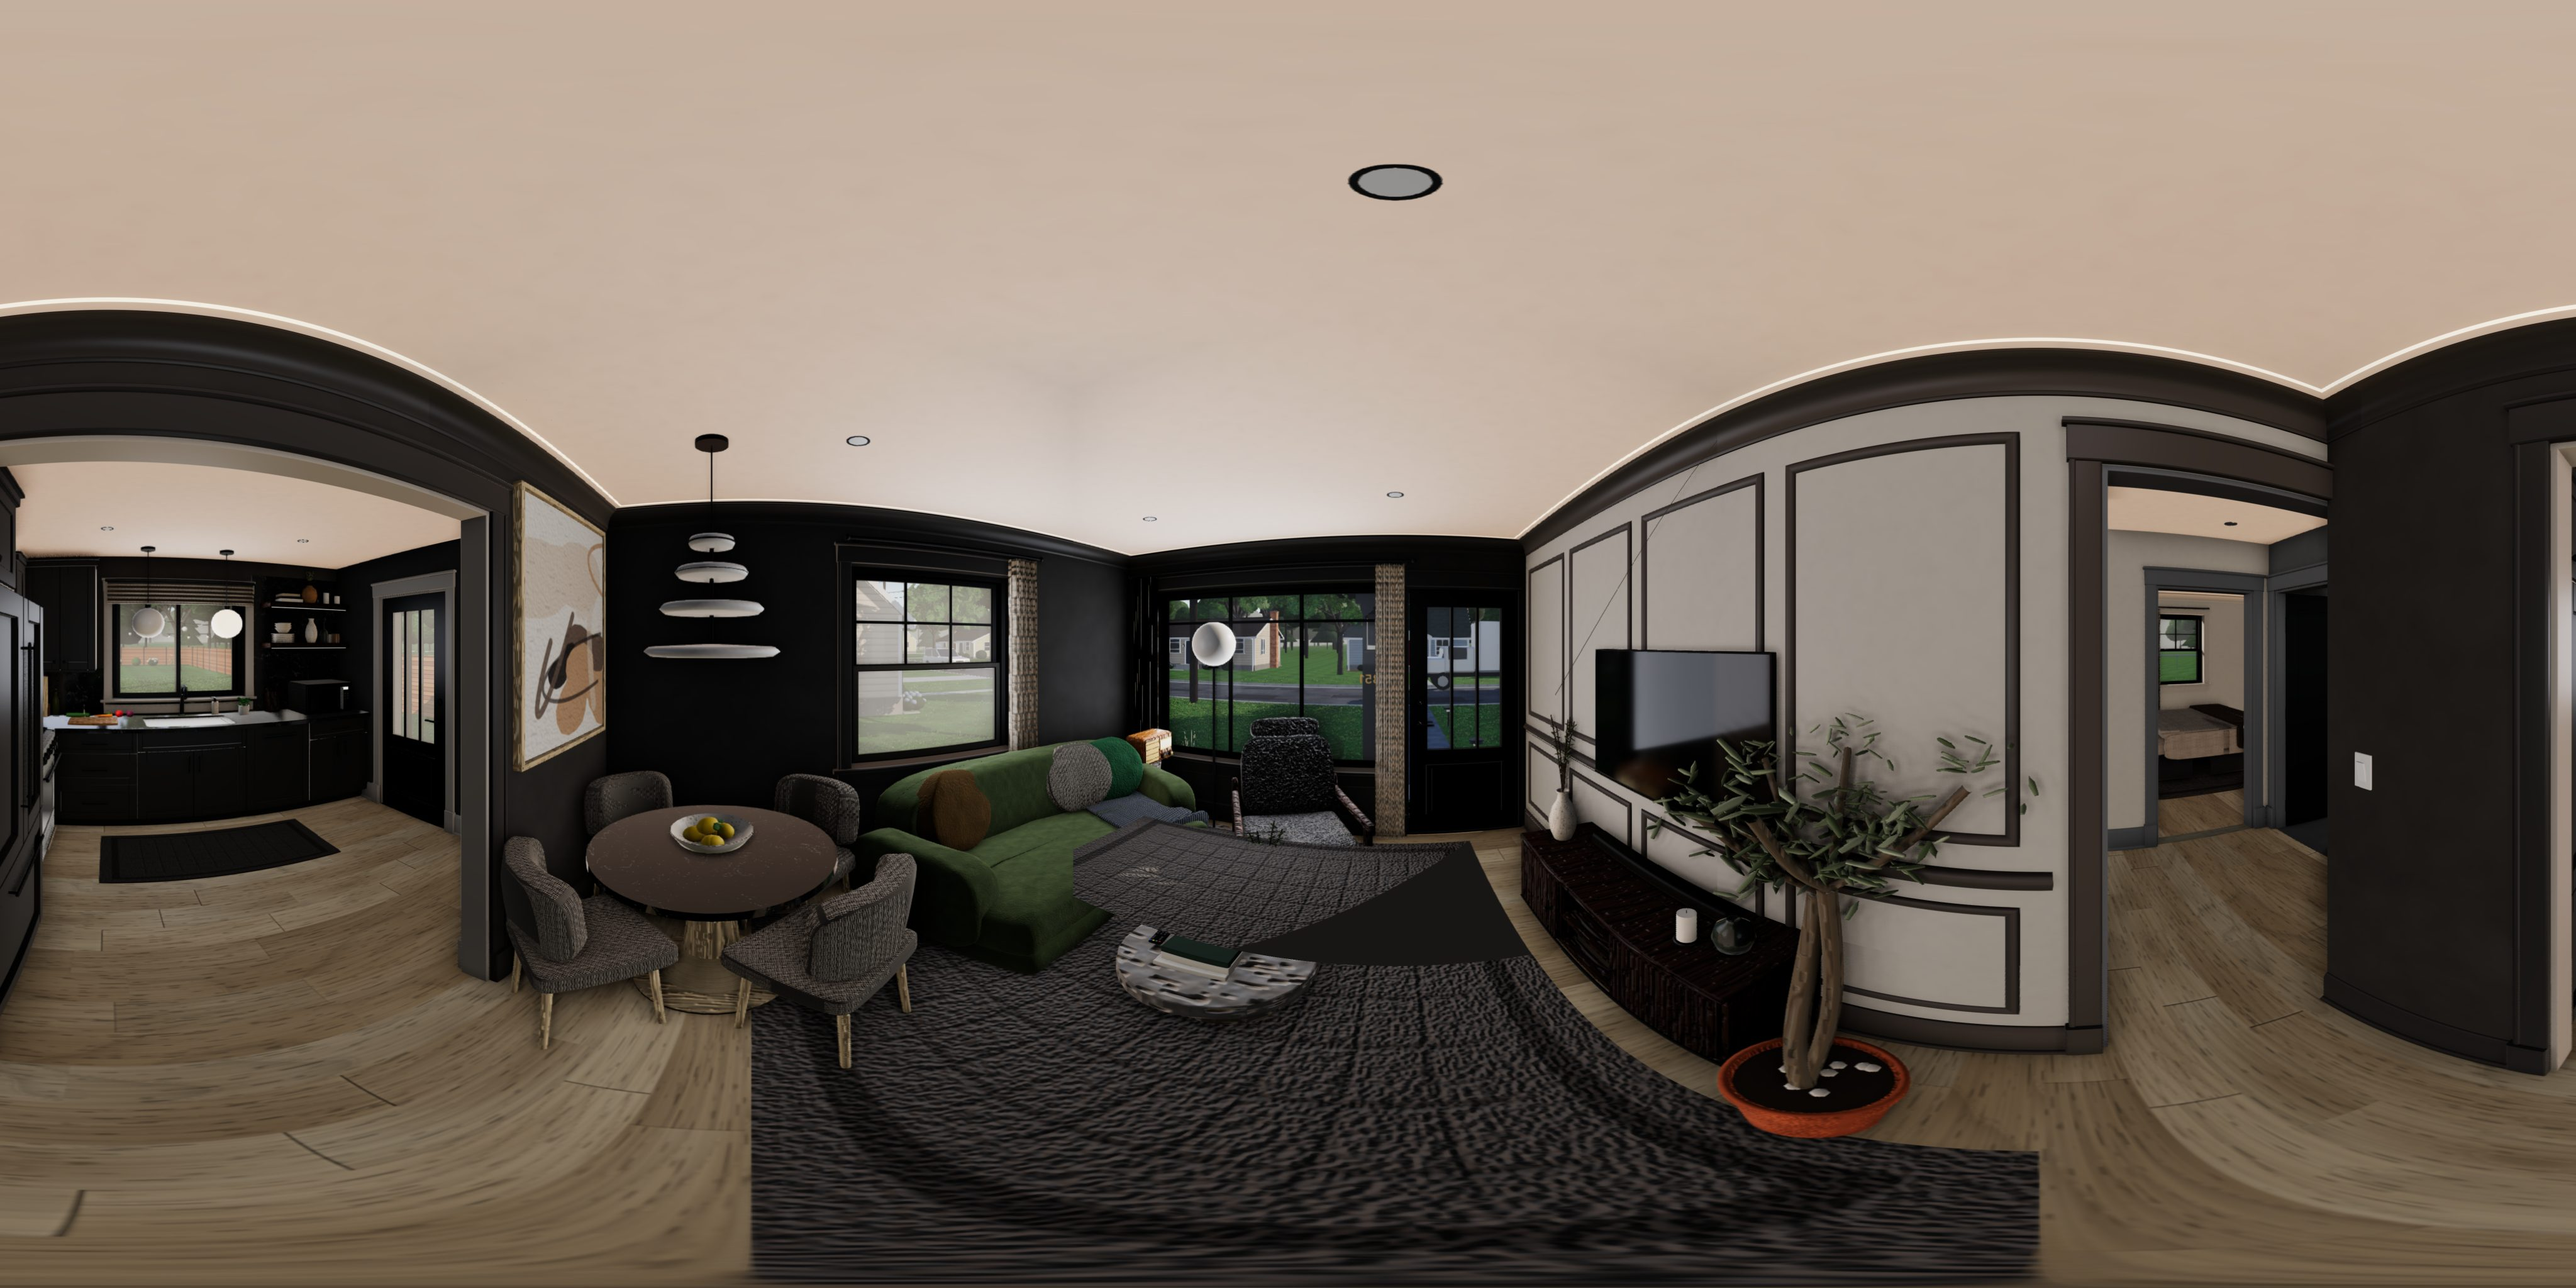
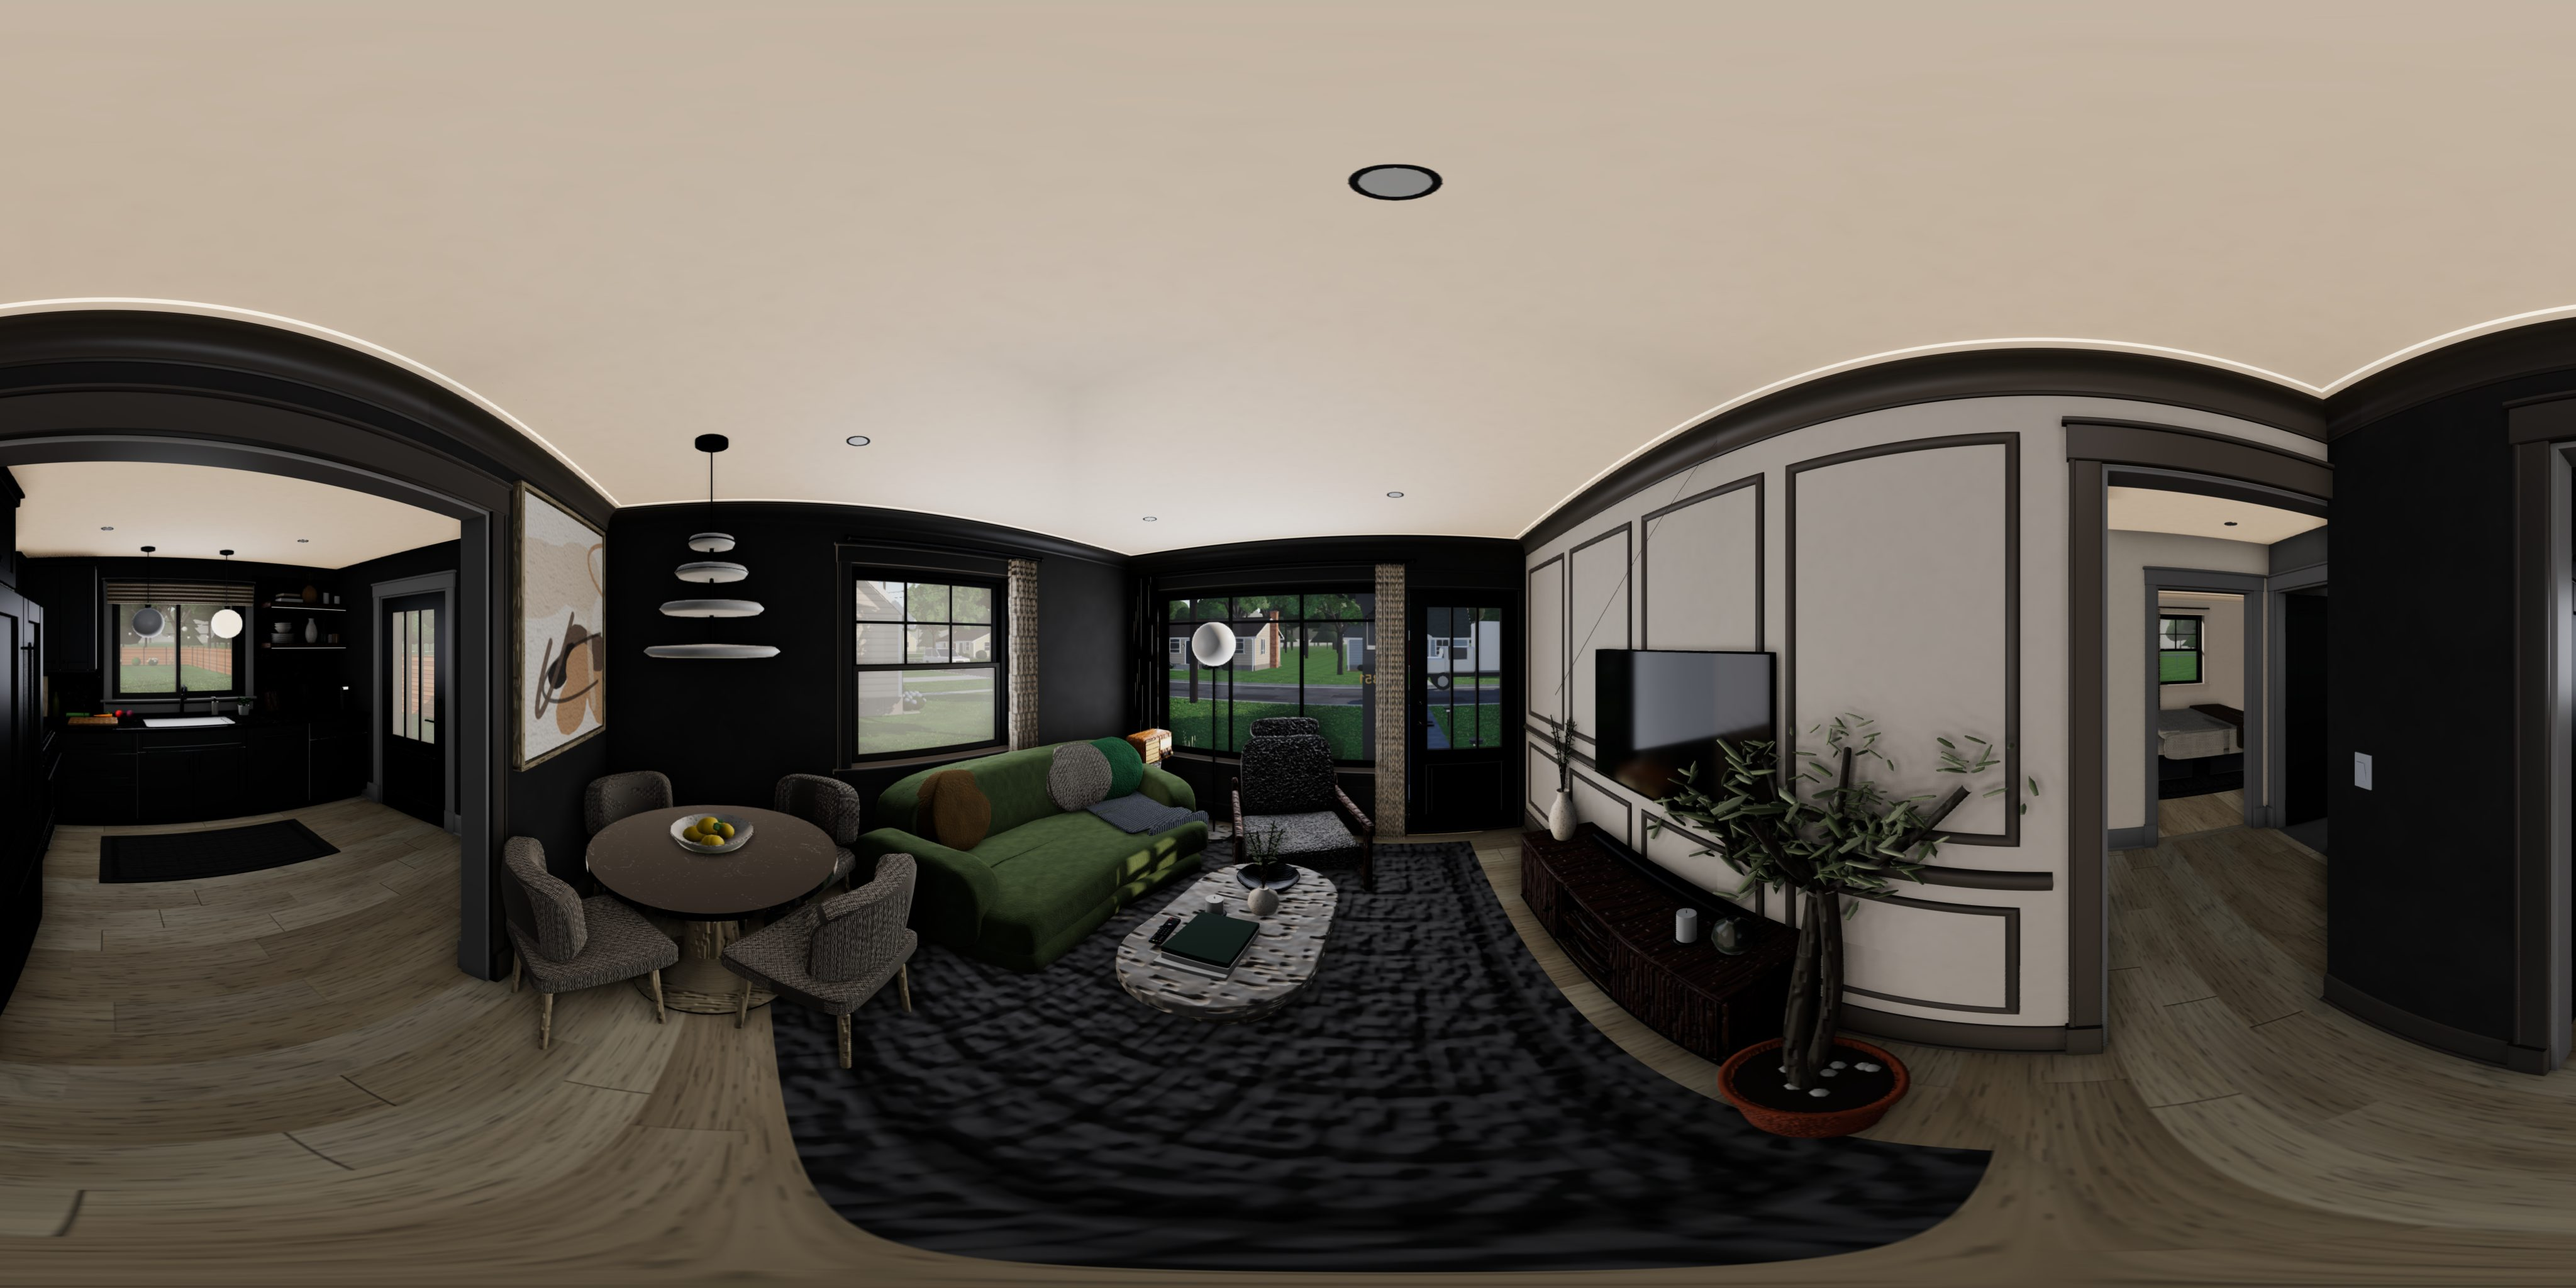
Tour v8: he/en/es languages, reset on refresh, hits-only radio list (WNCI default), slower walking, local three.js, rug and bath fixes
Claude-Session: https://claude.ai/code/session_01VAfN7BZWKhFDRhtGGFTofB

diff --git a/index.html b/index.html
@@ -70,7 +70,20 @@ body.loading .ui{opacity:0;pointer-events:none}
 #loader .lang-sw{margin-top:14px;background:rgba(255,255,255,.04);border:1px solid var(--line);border-radius:12px}
 #loader .lang-sw button{flex-direction:row;gap:6px;font-size:13px}
 #loader .lang-sw button .fl{font-size:18px}
+/* V8: flags-only language pill floating just above the compact intro card (outside its 244×62 footprint) */
+#intro .lang-intro{position:absolute;bottom:calc(100% + 6px);left:0;right:auto;background:var(--glass-strong);border:1px solid var(--line);border-radius:12px;padding:3px;gap:2px;box-shadow:0 6px 18px rgba(0,0,0,.25)}
+html[dir=rtl] #intro .lang-intro{left:auto;right:0} /* the pill itself is dir=ltr: align it with the card's docked edge */
+#intro .lang-intro button{flex:0 0 auto;flex-direction:row;min-width:44px;min-height:40px;padding:0 6px}
+#intro .lang-intro button .ln{display:none}
+#intro .lang-intro button .fl{font-size:20px}
+/* wide screens: the tools column sits right above the docked card → put the pill beside the card, toward the centre */
+@media (min-width:700px){#intro .lang-intro{bottom:auto;top:50%;transform:translateY(-50%);left:calc(100% + 8px);right:auto}html[dir=rtl] #intro .lang-intro{left:auto;right:calc(100% + 8px)}}
 body.ltr .tbtn,body.ltr .sp-it,body.ltr .rp-st{text-align:left}
+/* V8: LTR (English / Spanish) — undo the RTL-only alignments */
+body.ltr #leftStack>*{direction:ltr}
+body.ltr #radioChip,body.ltr #radioChip .rc-txt small{text-align:left}
+body.ltr .rp-note,body.ltr .plabel span{direction:ltr}
+body.ltr #intro h1,body.ltr #loader .brand{text-align:left}
 
 /* ---------- tools column ---------- */
 #tools{top:calc(var(--gut) + env(safe-area-inset-top,0px));right:calc(var(--gut) + env(safe-area-inset-right,0px));display:flex;flex-direction:column;gap:8px;align-items:stretch;width:150px}
@@ -111,7 +124,7 @@ body.mode-dollhouse #roomHud, body.mode-plan #roomHud{max-width:none;min-width:1
 #radioChip .rc-ico{font-size:15px;line-height:1}
 #radioChip .rc-txt{display:flex;flex-direction:column;line-height:1.15;min-width:0}
 #radioChip .rc-txt b{font-size:12px;white-space:nowrap;overflow:hidden;text-overflow:ellipsis}
-#radioChip .rc-txt small{font-size:10px;color:var(--accent);white-space:nowrap;direction:ltr;text-align:right}
+#radioChip .rc-txt small{font-size:10px;color:var(--accent);white-space:nowrap;direction:ltr;text-align:right;overflow:hidden;text-overflow:ellipsis;max-width:100%}
 #radioChip .rc-eq{display:none;align-items:flex-end;gap:2px;height:12px}
 #radioChip.on .rc-eq{display:inline-flex}
 #radioChip .rc-eq i{display:block;width:3px;height:100%;border-radius:2px;background:var(--accent);transform-origin:bottom;animation:eq .8s ease-in-out infinite alternate}
@@ -569,6 +582,7 @@ body.mode-plan #btnFlash, body.mode-pano #btnFlash{display:none}
     initI18n();
     const card = document.querySelector('#loader .card'); if (card) mountSwitcher(card, { className: 'lang-loader' });
     const ti = document.getElementById('toolsInner'); if (ti) mountSwitcher(ti, { className: 'lang-tools glass', prepend: true });
+    const it = document.getElementById('intro'); if (it) mountSwitcher(it, { className: 'lang-intro' }); // V8: also on the intro card
   } catch (e) { console.warn('[i18n]', e); }
   // V7: a refresh / back-forward restore always starts from the very beginning
   window.addEventListener('pageshow', (e) => { if (e.persisted) location.reload(); });
@@ -594,6 +608,6 @@ body.mode-plan #btnFlash, body.mode-pano #btnFlash{display:none}
     .then((m) => m.boot())
     .catch((e) => fatal('טעינת מנוע התלת-ממד נכשלה (three.js / core.js) — בדקו חיבור לאינטרנט ורעננו', e));
 </script>
-<div id="ver-tag" style="position:fixed;left:max(8px,env(safe-area-inset-left,0px));bottom:max(6px,env(safe-area-inset-bottom,0px));z-index:50;font:600 11px/1.4 system-ui,sans-serif;color:rgba(255,255,255,.75);background:rgba(20,24,30,.45);padding:2px 8px;border-radius:9px;pointer-events:none">גרסה 7</div>
+<div id="ver-tag" style="position:fixed;left:max(8px,env(safe-area-inset-left,0px));bottom:max(6px,env(safe-area-inset-bottom,0px));z-index:50;font:600 11px/1.4 system-ui,sans-serif;color:rgba(255,255,255,.75);background:rgba(20,24,30,.45);padding:2px 8px;border-radius:9px;pointer-events:none">גרסה 8</div>
 </body>
 </html>

diff --git a/js/radio-engine.js b/js/radio-engine.js
@@ -52,7 +52,7 @@ export const RB_MIRRORS = ['https://de1.api.radio-browser.info', 'https://nl1.ap
 // two lookups per mirror (in parallel): WNCI by name (it carries no tags there) + every US "top 40" station
 export const RB_QUERY = '/json/stations/search?name=WNCI&state=Ohio&countrycode=US&hidebroken=true&order=clickcount&reverse=true&limit=50';
 export const RB_QUERY_HITS = '/json/stations/search?tag=top%2040&countrycode=US&hidebroken=true&order=clickcount&reverse=true&limit=500';
-const CACHE_KEY = 'rbHits7', CACHE_MS = 24 * 3600e3, RB_TIMEOUT = 4000, PLAY_TIMEOUT = 7000, STALL_MS = 7000, DUCK_K = 0.35;
+const CACHE_KEY = 'rbHits8', CACHE_MS = 24 * 3600e3, RB_TIMEOUT = 4000, PLAY_TIMEOUT = 7000, STALL_MS = 7000, DUCK_K = 0.35;
 
 // dial position 0..1 (FM 88–108 and AM 540–1600 share the needle travel) → engine dial units (FMIN..FMAX)
 export function dialPos(s) {
@@ -110,8 +110,10 @@ export function pickHits(lists, opts = {}) {
     extras.set(call, e);
   }
   const urlsOf = (cand, base) => {
-    const list = [...cand.values()].sort((a, b) => (b.https - a.https) || (b.pop - a.pop) || (b.br - a.br)).map((c) => c.url);
-    if (base && !list.includes(base)) list.push(base); // the verified built-in stream is always a fallback
+    // V8: the verified built-in stream (an audio/aac shoutcast URL, plays everywhere) goes FIRST; radio-browser
+    // alternatives (often HLS .m3u8, which desktop Chrome/Firefox cannot play in <audio>) are fallbacks after it
+    const list = [...cand.values()].sort((a, b) => (b.https - a.https) || (/\.m3u8/i.test(a.url) - /\.m3u8/i.test(b.url)) || (b.pop - a.pop) || (b.br - a.br)).map((c) => c.url).filter((u) => u !== base);
+    if (base) list.unshift(base);
     return list.slice(0, 4);
   };
   const strip = (h) => { const { brand, url, cand, ...rest } = h; return rest; }; // eslint-disable-line no-unused-vars

diff --git a/js/core.js b/js/core.js
@@ -43,7 +43,7 @@ export async function boot() {
   // loading-screen hook for the UI: window.addEventListener('tour:phase', (e) => e.detail.phase / e.detail.t)
   const perfMark = (k) => { const t = Math.round(performance.now()); PERF.marks[k] = t; try { console.info('[perf]', k, t + 'ms'); window.dispatchEvent(new CustomEvent('tour:phase', { detail: { phase: k, t } })); } catch (_) {} return t; };
   perfMark('boot');
-  try { for (const k of ['q', 'tod', 'hint', 'dpad', 'navmode', 'style', 'radioVol', 'radioFav', 'rbColumbus5', 'rbWNCI6']) localStorage.removeItem('eakin_' + k); } catch (_) { /* private mode */ } // V7: drop stale state keys (see store())
+  try { for (const k of ['q', 'tod', 'hint', 'dpad', 'navmode', 'style', 'radioVol', 'radioFav', 'rbColumbus5', 'rbWNCI6', 'rbHits7']) localStorage.removeItem('eakin_' + k); } catch (_) { /* private mode */ } // V7: drop stale state keys (see store())
   /* ================================================================ platform / quality */
   const isTouch = (window.matchMedia && matchMedia('(pointer: coarse)').matches) || (('ontouchstart' in window) && navigator.maxTouchPoints > 0);
   const isPhone = isTouch && Math.min(screen.width || 1000, screen.height || 1000) < 820;

diff --git a/js/interior-lux.js b/js/interior-lux.js
@@ -419,8 +419,13 @@ export function artLux(f, cell, cx, cy, z, w, h, o = {}) {
 }
 
 // ------------------------------------------------------------------ rugs
+// V8: the top is tessellated into ~0.4 m cells (was ONE quad = 2 huge triangles). A big triangle with a vertex exactly on
+// a camera's plane (the living-room 360 node stood exactly on the rug's z edge) was drawn with a degenerate
+// perspective interpolation → one whole triangle came out as a flat, untextured "wedge / flap" in front of the sofa
+// (visible in the 360 renders). Small cells confine any such clipping case to a few cm and make the texture stable.
 export function rugLux(f, w, l, pos, color, o = {}) {
-  f.box('rug', [w, 0.012, l], [pos[0], pos[1] + 0.006, pos[2]], color, { r: 0, uv: 'keep', ry: o.ry || 0 });
+  const sx = Math.max(2, Math.ceil(w / 0.4)), sz = Math.max(2, Math.ceil(l / 0.4));
+  f.add('rug', new THREE.BoxGeometry(w, 0.012, l, sx, 1, sz), [pos[0], pos[1] + 0.006, pos[2]], color, { uv: 'keep', ry: o.ry || 0 });
 }
 
 // ------------------------------------------------------------------ styling props

diff --git a/js/core-pano.js b/js/core-pano.js
@@ -253,8 +253,8 @@ export function createPano(env) {
     for (let i = 1; i < pts.length; i++) cum.push(cum[i - 1] + pts[i].distanceTo(pts[i - 1]));
     const total = cum[cum.length - 1] || 1e-6;
     const dist = from.distanceTo(to);
-    // V7 owner: slower, calmer flights between 360 nodes (V2–V6: 0.7–2.4 s along a path, 0.55–1.3 s straight)
-    const dur = route ? Math.min(3.2, Math.max(1.6, 1.2 + total * 0.12)) : Math.min(2.0, 1.6 + dist * 0.04);
+    // V8 owner: slower, calmer flights between 360 nodes — 1.6–2.0 s (V2–V6: 0.7–2.4 s along a path, 0.55–1.3 s straight)
+    const dur = route ? Math.min(2.0, Math.max(1.6, 1.3 + total * 0.08)) : Math.min(2.0, 1.6 + dist * 0.04);
     // look toward target while gliding (keep current yaw if mostly vertical move); with a path: the last leg's heading
     let dx = to.x - from.x, dz = to.z - from.z;
     if (route) for (let i = pts.length - 1; i > 0; i--) { const ax = pts[i].x - pts[i - 1].x, az = pts[i].z - pts[i - 1].z; if (Math.hypot(ax, az) > 0.5) { dx = ax; dz = az; break; } }

diff --git a/js/core-render.js b/js/core-render.js
@@ -880,7 +880,7 @@ export function createRender(env) {
   function lookStats() {
     return {
       exposure: +renderer.toneMappingExposure.toFixed(3), toneMapping: look.toneMapping, path: look.path, customTone: look.customTone,
-      sky: look.sky, fill: look.fill, inside: +look.inside.toFixed(2), envMaterials: look.envSet,
+      sky: look.sky, fill: look.fill, inside: +look.inside.toFixed(2), envMaterials: look.envSet, room: look.room || null, roomK: +(look.roomK || 1).toFixed(3), // V8: room exposure lift (bath1 / bath2)
       hemi: env.hemi ? +env.hemi.intensity.toFixed(3) : null,
       clamp: look.clamp ? { materials: look.clamp.materials, albedoClamped: look.clamp.albedoClamped, emissiveCapped: look.clamp.emissiveCapped, examples: look.clamp.examples } : null,
       grade: !!fx.grade, bloom: fx.bloom ? { s: fx.bloom.strength, t: fx.bloom.threshold } : null,

diff --git a/js/i18n.js b/js/i18n.js
@@ -41,7 +41,7 @@ export const DICT = {
   'סיור בבית אחרי שיפוץ · או בחרו מצב תצוגה בסרגל העליון': ['Tour the renovated house · or pick a view mode in the top bar', 'Recorre la casa remodelada · o elige un modo de vista en la barra superior'],
   'כניסה לסיור': ['Enter the tour', 'Entrar al recorrido'],
   '3351 Eakin Rd — כניסה לסיור': ['3351 Eakin Rd — enter the tour', '3351 Eakin Rd — entrar al recorrido'],
-  'גרסה 7': ['Version 7', 'Versión 7'],
+  'גרסה 8': ['Version 8', 'Versión 8'],
   'שפה': ['Language', 'Idioma'],
   'בחירת שפה': ['Choose language', 'Elegir idioma'],
   'חלק מהרכיבים לא נטענו': ['Some components did not load', 'Algunos componentes no se cargaron'],

diff --git a/js/interior-rooms.js b/js/interior-rooms.js
@@ -330,7 +330,7 @@ export function buildLiving(E, G, top, buildRadio) {
     try { buildRemote(E, G, CT.sub(0.2, th, 0.215, 0.15), tv); } catch (e) { console.warn('[interior] tv remote failed', e); }
     CT.solid(E, [tl, th, tw], [0, th / 2, 0]);
   }
-  rugLux(root, 2.6, 3.0, [7.35, F0, 5.5], 0xd9d1c2);
+  rugLux(root, 2.6, 2.94, [7.35, F0, 5.53], 0xd9d1c2); // V8: z 4.06–7.0 (was 4.0–7.0: its edge sat exactly on the living 360 node's plane z 4.0)
   // end table (travertine drum) + vintage radio
   const ET = root.sub(8.65, F0, 6.84, -PI / 2);
   ET.cyl('travertine', 0.185, 0.185, 0.56, [0, 0.28, 0], 0xffffff, { seg: 40 });

diff --git a/VERSIONS.md b/VERSIONS.md
@@ -8,3 +8,4 @@ The current version is always saved and numbered before a new one is uploaded.
 | tour v5 (interim) | 2026-10-15 | Live from commit 93959a9: Columbus live radio in-page, version tag 5 |
 | tour v6 | 2026-10-15 | Radio: only WNCI 97.9 (starts on first tap); small intro card docked at the side; close buttons always reachable on iPhone; photoreal 360 fixed (three r160 compatibility) with honest phone message; ~35% faster first load, ~60% faster repeat load (texture cache) |
 | tour v7 | 2026-10-15 | Bedroom benches removed and clear walking paths; TV remote on the coffee table with 10 live US channels (incl. ABC 6 Columbus); 6 renovation styles (added Mediterranean, Japandi, Industrial loft); gallery of 42 pre-rendered 360° renders (6 styles × 7 rooms) that opens fast on phones; three.js vendored on the domain |
+| tour v8 | 2026-10-15 | Languages: Hebrew 🇮🇱 / English 🇺🇸 / Spanish 🇲🇽 with flags (456 strings); refresh always starts from the beginning + "Start over" button; radio back to a station list of hits stations only, default WNCI 97.9, auto-skip to the next hits station if one is unavailable (13 verified streams); slower walking and 360 moves; three.js loads from the domain; living-room rug fix; brighter bathroom 1 |
